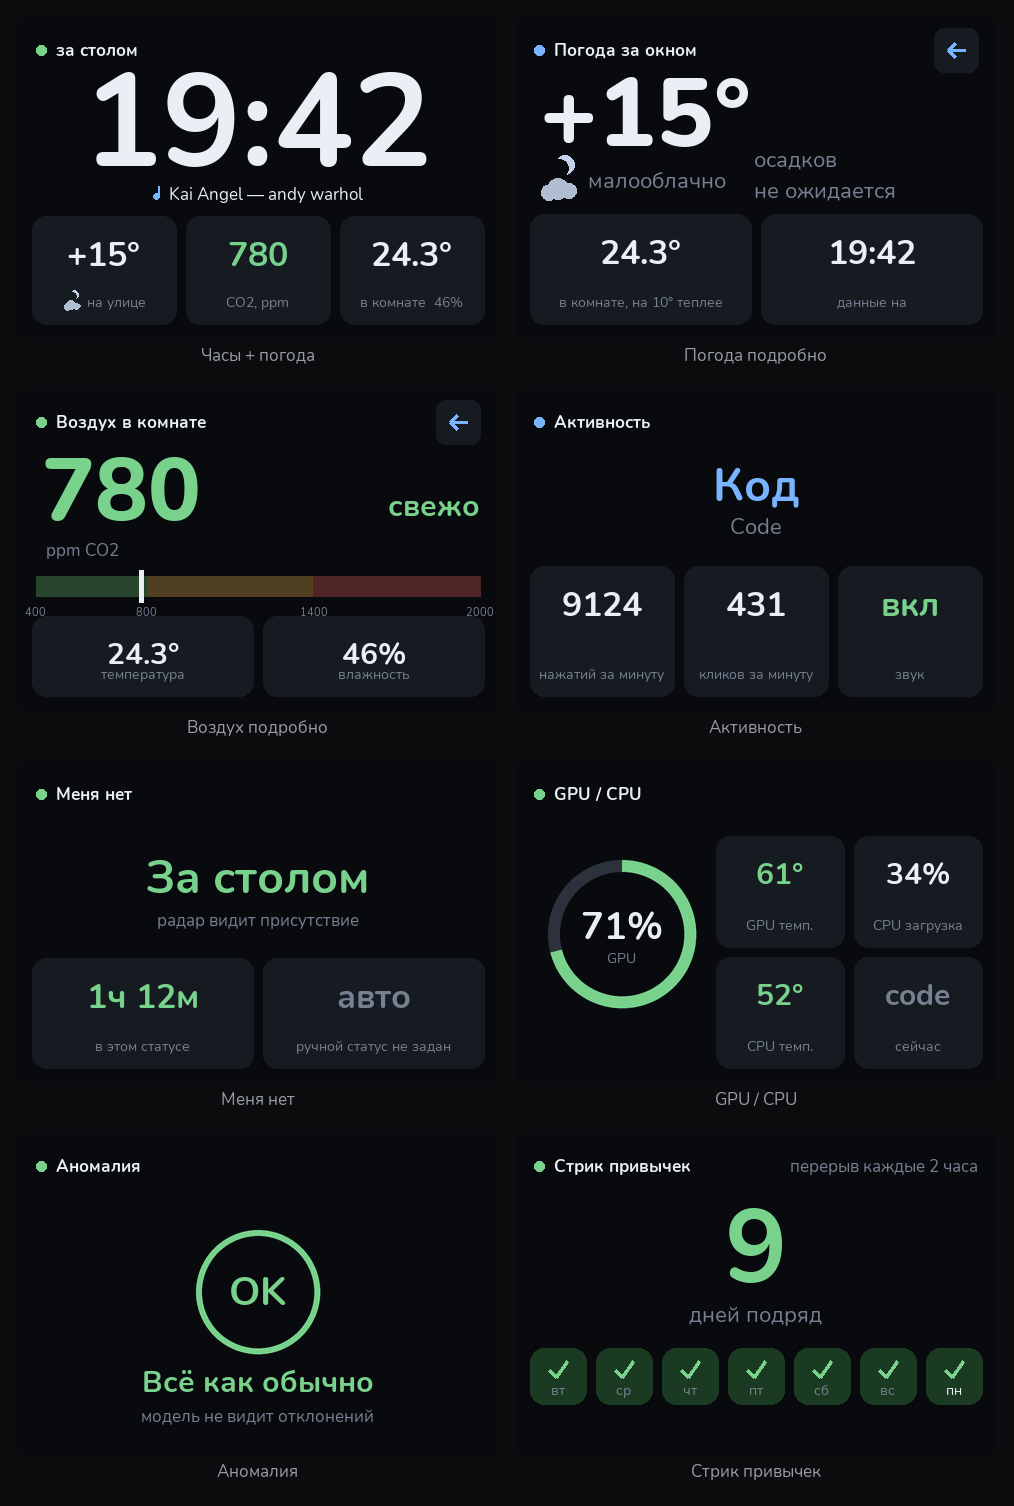
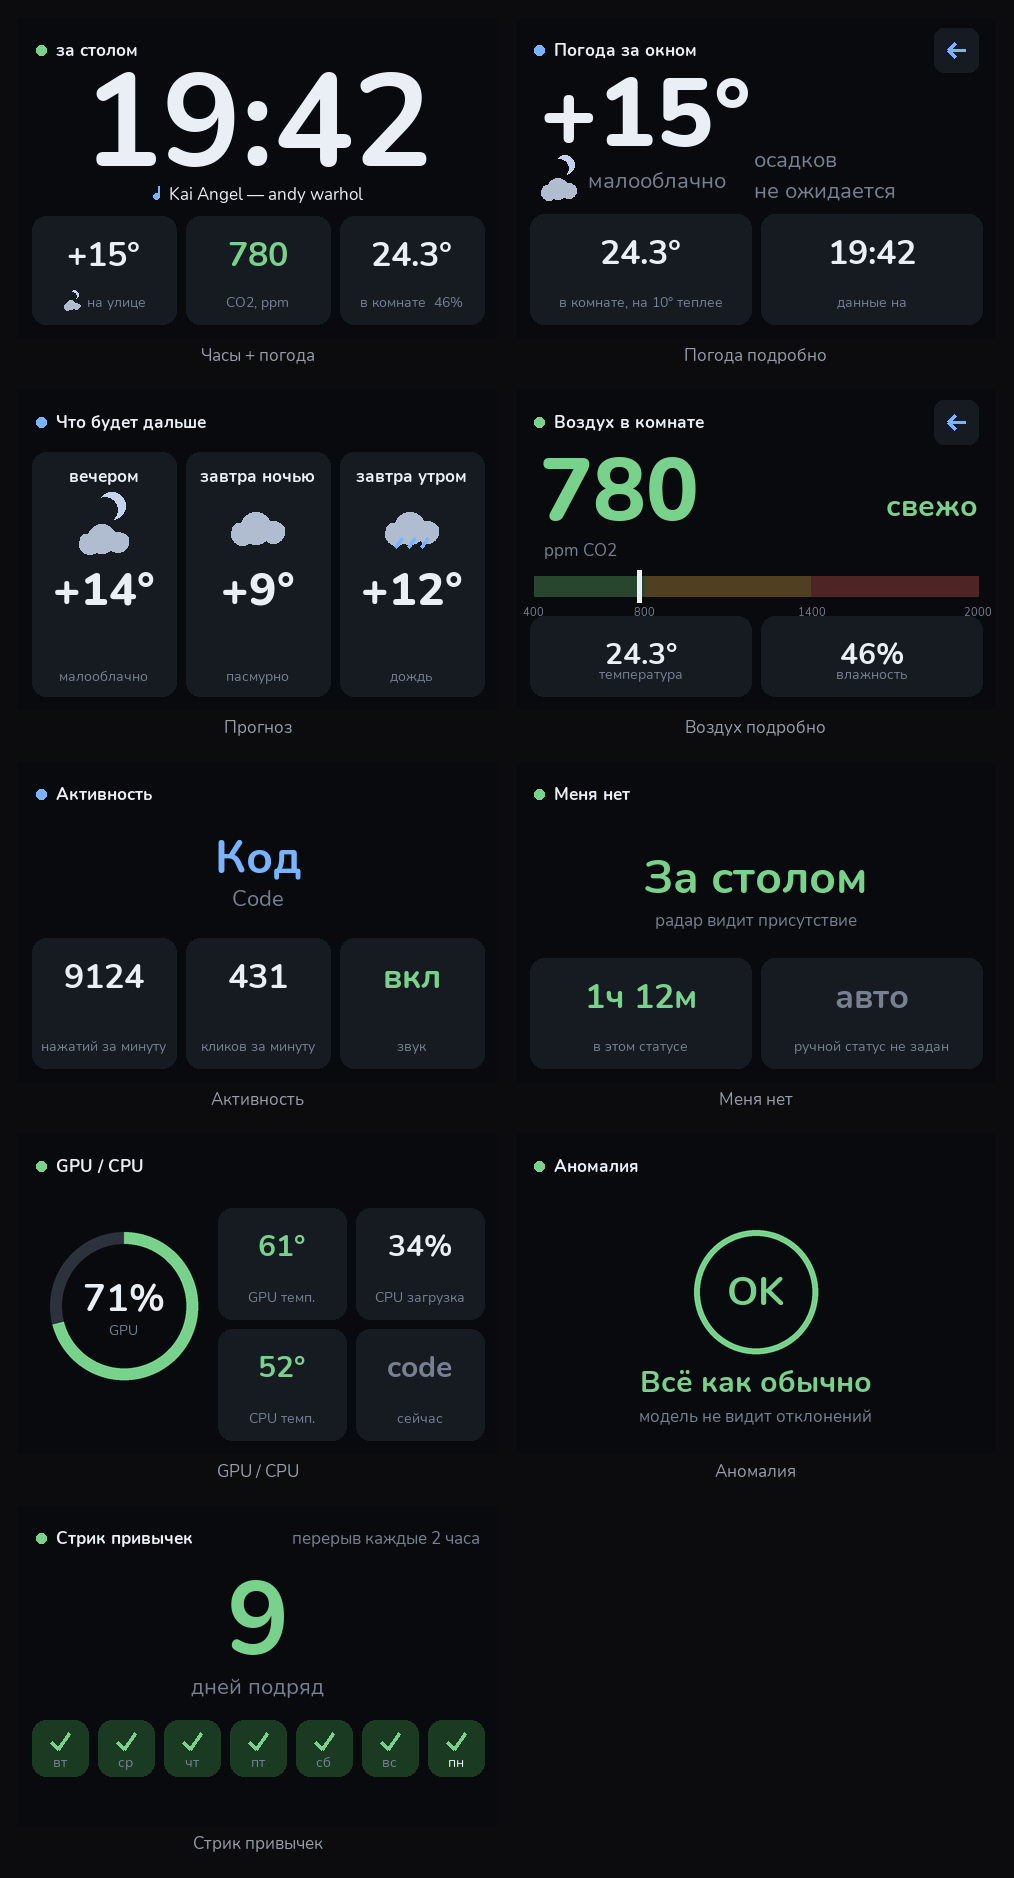
Английские скриншоты для английской страницы
На английском README стояли русские скриншоты — страница выглядела
недоделанной. Язык на блоке уже переключается, так что render_demo.py
получил ключ --en и собирает второй набор под латинскими именами.

Заодно два изъяна, которые были и в русской версии, но стали видны, когда
картинка оказалась на главной странице репозитория.

В углу каждого кадра висело «время не сверено»: демонстрация не выставляла
clock_synced, а блок честно не верит своим часам, пока не сверится по сети.
На живом устройстве это длится секунды, на картинке висело всегда.

Экран прогноза показывал «Прогноза нет»: демонстрация не заполняла
weather.ahead. То есть витрина проекта рекламировала отказ.

diff --git a/pi/tools/render_demo.py b/pi/tools/render_demo.py
@@ -25,6 +25,8 @@ from PIL import Image, ImageDraw
 
 sys.path.insert(0, str(Path(__file__).resolve().parents[1]))
 
+from app import forecast  # noqa: E402
+from app import lang  # noqa: E402
 from app import theme  # noqa: E402
 from app.screens import registry  # noqa: E402
 from app.state import Env, State, Weather  # noqa: E402
@@ -46,6 +48,18 @@ def demo_state() -> State:
         weather=Weather(temp=14.6, cond="малооблачно", code=1, is_day=False),
     )
     state.weather.rain_soon_minutes = None
+    # Прогноз на вечер и завтра. Без него экран прогноза показывал
+    # «Прогноза нет» — то есть витрина проекта рекламировала отказ.
+    state.weather.ahead = [
+        forecast.Part("вечером", "сегодня", 14.0, 1, False),
+        forecast.Part("ночью", "завтра", 9.0, 3, False),
+        forecast.Part("утром", "завтра", 12.0, 61, True),
+    ]
+    # Часы сверены. Иначе в углу каждого кадра висело предупреждение
+    # «время не сверено»: у Pi нет часов реального времени, и по умолчанию
+    # блок честно не верит своим, пока не сверится по сети. На живом
+    # устройстве это длится секунды, а на картинке висело всегда.
+    state.health.clock_synced = True
 
     state.desk.presence = True
     state.desk.presence_since = now - timedelta(hours=1, minutes=12)
@@ -69,8 +83,10 @@ def frames() -> list[tuple[str, Image.Image]]:
     for entry in config["screens"]["enabled"]:
         screen = registry.instantiate(entry)
         image = Image.new("RGB", (theme.WIDTH, theme.HEIGHT), theme.BG)
-        screen.render(state, ImageDraw.Draw(image), image)
-        out.append((screen.title or screen.name, image))
+        # Через ту же обёртку, что на устройстве, иначе картинка
+        # показывала бы не то, что человек увидит на экране.
+        screen.render(state, lang.wrap(ImageDraw.Draw(image)), image)
+        out.append((lang.t(screen.title or screen.name), image))
     return out
 
 
@@ -93,6 +109,13 @@ def sheet(shots: list[tuple[str, Image.Image]]) -> Image.Image:
 
 
 def main() -> None:
+    # Английский набор кладём под латинскими именами, рядом с русским:
+    # на английскую страницу нужны английские скриншоты, иначе она выглядит
+    # недоделанной, а на русскую — русские.
+    #     py tools/render_demo.py --en
+    english = "--en" in sys.argv
+    if english:
+        lang.use("en")
     DOCS.mkdir(parents=True, exist_ok=True)
     shots = frames()
 
@@ -102,11 +125,11 @@ def main() -> None:
     palette = shots[0][1].convert("P", palette=Image.ADAPTIVE, colors=128)
     converted = [image.quantize(palette=palette, dither=Image.Dither.NONE)
                  for _, image in shots]
-    gif = DOCS / "демо.gif"
+    gif = DOCS / ("demo.gif" if english else "демо.gif")
     converted[0].save(gif, save_all=True, append_images=converted[1:],
                       duration=HOLD_MS, loop=0, optimize=True)
 
-    board = DOCS / "все-экраны.png"
+    board = DOCS / ("all-screens.png" if english else "все-экраны.png")
     sheet(shots).save(board)
 
     print(f"\n  {gif.name}  — {len(shots)} кадров, "

diff --git a/README.md b/README.md
@@ -2,7 +2,7 @@
 
 *[Русская версия](README.ru.md) — the original. This is a translation of it.*
 
-<img src="docs/демо.gif" width="480" alt="Screen carousel">
+<img src="docs/demo.gif" width="480" alt="Screen carousel">
 
 A desk device built on a Raspberry Pi Zero 2 W. It shows the time and the
 weather, watches the air in the room, knows whether you are at your desk,
@@ -16,7 +16,7 @@ with Python. Only debugged code goes to the board.
 
 ## What it does
 
-<img src="docs/все-экраны.png" width="760" alt="Every screen">
+<img src="docs/all-screens.png" width="760" alt="Every screen">
 
 | | |
 |---|---|
@@ -165,7 +165,9 @@ seventeen seconds after power-on.
 <img src="docs/приложение.png" width="720" alt="The app">
 
 `pc/DeskCompanion` is a .NET 8 window: overview, screen list, statistics,
-settings. It lives in the tray, waits for the device and picks it up the
+settings. Its own interface is Russian only so far — the device switches
+language, the app does not yet. A translation is
+[welcome](CONTRIBUTING.md). It lives in the tray, waits for the device and picks it up the
 moment it appears on the network.
 
 It deliberately has no counting logic of its own: the metrics and the screen
